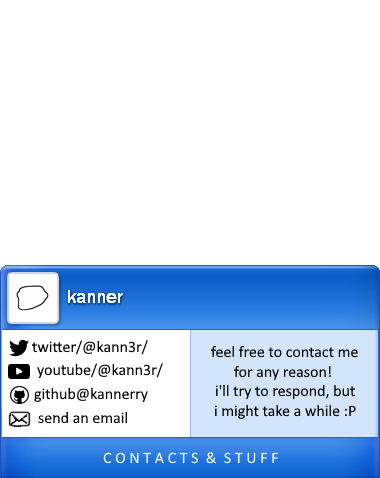
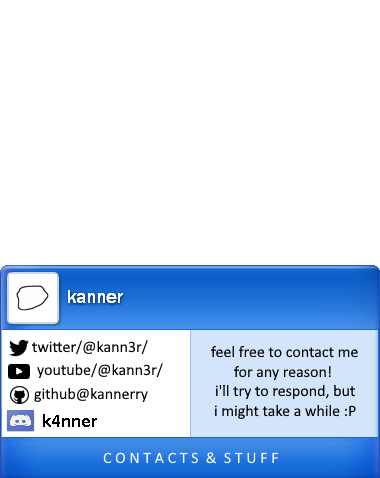
ico
garrys mail is #Deprecated
forgot the login

Changed region(s): [[0.0, 0.8494, 0.3474, 0.9079]]

diff --git a/index.html b/index.html
@@ -97,7 +97,7 @@
             <li class="px-2"><a href="https://twitter.com/kann3r" target="_blank">twitter.com/kann3r</a></li>
             <li class="px-2"><a href="https://www.youtube.com/@kann3r/" target="_blank">youtube.com/@kann3r</a></li>
             <li class="px-2"><a href="https://github.com/kannerry" target="_blank">github.com/kannerry</a></li>
-            <li class="px-2"><a href="mailto:bconnorkenny@gmail.com" target="_blank">compose email</a></li>
+            <li class="px-2"><a style="cursor:default"target="_blank">skibidi toilet</a></li>
             <li class="px-2 undraggable"><a>pad</a></li> <!-- this looks a bit disgusting but -->
             <li class="px-2 undraggable"><a>pad</a></li> <!-- i don't know what else to do... :3 -->
             <img class="undraggable position-absolute start-menu-offset" src="img/start/start_menu.png">
